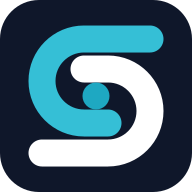
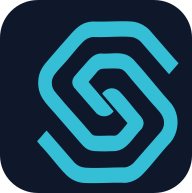
stuff

diff --git a/src/components/SolvantisMark.tsx b/src/components/SolvantisMark.tsx
@@ -19,14 +19,12 @@ export function SolvantisMark({
 }: SolvantisMarkProps) {
   const isReversed = variant === 'reversed' || variant === 'tile';
   const isMono = variant === 'mono';
-  const upper = isMono ? 'currentColor' : isReversed ? '#35BFD6' : '#1EA8C2';
-  const lower = isMono ? 'currentColor' : isReversed ? '#FFFFFF' : '#0F172A';
-  const junction = isMono ? 'currentColor' : isReversed ? '#1EA8C2' : '#35BFD6';
+  const markColor = isMono ? 'currentColor' : isReversed ? '#35BFD6' : '#1EA8C2';
 
   return (
     <svg
       xmlns="http://www.w3.org/2000/svg"
-      viewBox="0 0 64 64"
+      viewBox="0 0 305 306.5"
       width={size}
       height={size}
       className={className}
@@ -35,10 +33,9 @@ export function SolvantisMark({
       aria-label={title}
       aria-hidden={title ? undefined : true}
     >
-      {variant === 'tile' && <rect width="64" height="64" rx="13" fill="#0F172A" />}
-      <path d="M51 12H27C18.72 12 12 18.72 12 27s6.72 15 15 15h10" fill="none" stroke={upper} strokeWidth="9" strokeLinecap="round" strokeLinejoin="round" />
-      <path d="M13 52h24c8.28 0 15-6.72 15-15s-6.72-15-15-15H27" fill="none" stroke={lower} strokeWidth="9" strokeLinecap="round" strokeLinejoin="round" />
-      <circle cx="32" cy="32" r="4.5" fill={junction} />
+      {variant === 'tile' && <rect width="305" height="306.5" rx="60" fill="#0F172A" />}
+      <path fill={markColor} d="M276.51,92.61c2.17,2.53,4.5,5.02,6.76,7.44l.26.65-14.98,17.24-44.86-51.63c-4.18-4.13-10.07-7.22-15.63-7.68-19.64-1.61-40.95,1.23-60.77.02-5.85.91-10.9,3.25-15.35,7.66-8.71,8.65-17.42,20.17-25.6,29.68-6.16,7.15-14.12,14.96-19.68,22.48-4.06,5.49-5.32,12.45-3.48,19.35,1.25,4.7,4.21,7.88,7.06,11.36,17.73,21.67,37.35,42.02,55.25,63.58,1.67,1.74,3.72,2.55,5.95,2.73,9.92.82,20.69-.65,30.7,0,2.1-.21,3.87-1.07,5.5-2.57,3.54-3.24,10.73-11.64,13.71-15.68.41-.55.78-1.12,1.13-1.72l-40.03-46.54c-.3-.67,1.71-2.71,2.25-3.24,7.47-7.37,18.39-7.47,25.77.17,9.13,9.45,18.57,21.9,27.24,32.23,6.56,7.82,14.87,14.22,7.46,26.25-14.27,13.73-22.75,34.46-43.33,35.64-9.27.53-21.45.58-30.71,0-12.89-.81-17.05-5.92-25.45-15.54-13.08-14.98-26.09-29.98-39.02-45s-27.13-26.57-25.92-50.45c.86-16.91,8.35-25.01,17.86-36.15,11.22-13.15,22.74-26.14,34.13-39.01,10.24-11.57,19.04-18.85,34.23-19.8,20.3.98,41.48-1.25,61.68,0,10.41.65,20.53,5.52,28.44,13.14,13.21,15.06,26.37,30.17,39.42,45.4Z" />
+      <path fill={markColor} d="M70.4,211.16c1.12-1.26,2.58-2.42,3.62-3.86l44.37,51.14c4.96,4.88,10.72,7.41,17.27,7.85,20.59,1.37,42.7-.7,63.37-.45,4.88-.85,9.05-3.25,12.88-6.73l44.23-50.63c6.98-10.11,5.45-20.55-1.77-29.66-5.05-6.38-10.83-12.22-16.1-18.39-9.92-11.63-19.83-23.25-29.78-34.79-5.41-6.27-10.83-15.91-18.9-16.55-7.26-.58-18.36-.54-25.64,0-3.31.24-5.92,1.11-8.48,3.59l-14.86,17.46,39.88,46.64c-6.76,9.23-18.66,10.54-27.07,3.38l-35.62-41.05c-4.41-6.15-3.7-12.78.89-18.42,5.26-6.46,11.04-12.66,16.54-18.91,7.19-8.16,13.17-15.91,24.27-16.88,18.9,1.7,38.21-5.98,53.32,10.55,20.49,22.41,39.56,47.46,60,70.08,13.01,17.97,12.02,42.8-1.47,60-15.6,16.29-29.72,36.04-45.42,51.99-7.37,7.49-16.67,11.99-26.52,12.94-22.02-1.1-45.14,1.48-67.03.02-9.77-.65-19.91-5.46-27.24-12.8-14.13-14.14-26.78-32.21-40.81-46.7l-5.22-6.32c.92-2.19,2.82-3.52,4.19-5.1,2.38-2.75,4.68-5.7,7.1-8.41Z" />
     </svg>
   );
 }

diff --git a/src/app/wholesale/_client.tsx b/src/app/wholesale/_client.tsx
@@ -2,6 +2,7 @@
 
 import React, { useState, useEffect, useCallback } from 'react';
 import { useRouter } from 'next/navigation';
+import { SolvantisMark } from '@/components/SolvantisMark';
 import type { WholesaleSession } from '@/lib/wholesale/wholesaleSession';
 
 // ─────────────────────────────────────────────────────────────────────────────
@@ -565,9 +566,7 @@ export default function WholesalePortalClient({ session }: { session: WholesaleS
       <header style={{ background: '#fff', borderBottom: '1px solid #e2e8f0', boxShadow: '0 1px 3px rgba(0,0,0,.06)', position: 'sticky', top: 0, zIndex: 100 }}>
         <div style={{ maxWidth: 1280, margin: '0 auto', padding: '0 24px', height: 60, display: 'flex', alignItems: 'center', gap: 16 }}>
           <div style={{ display: 'flex', alignItems: 'center', gap: 10 }}>
-            <div style={{ width: 34, height: 34, background: '#2563eb', borderRadius: 10, display: 'flex', alignItems: 'center', justifyContent: 'center', flexShrink: 0 }}>
-              <svg width="18" height="18" viewBox="0 0 28 28" fill="none"><path d="M14 2L24 7.5V20.5L14 26L4 20.5V7.5L14 2Z" fill="white" fillOpacity="0.15" stroke="white" strokeWidth="1.5"/><path d="M16.5 8H12L10.5 14H13.5L11.5 20L19 12.5H15L16.5 8Z" fill="white"/></svg>
-            </div>
+            <SolvantisMark size={34} variant="tile" />
             <span style={{ fontSize: 15, fontWeight: 800, color: '#0f172a' }}>{portalTitle}</span>
           </div>
           <div style={{ display: 'flex', gap: 4, marginLeft: 8 }}>

diff --git a/src/app/api/wholesale/orders/[id]/submit/route.ts b/src/app/api/wholesale/orders/[id]/submit/route.ts
@@ -179,6 +179,8 @@ export async function POST(_req: Request, { params }: Ctx) {
         </tr>`).join('');
 
       const hasIndent = items.some((i: any) => i.is_indent);
+      const appUrlRaw = process.env.APP_URL ?? 'https://solvantis.com.au';
+      const appUrl = (/^https?:\/\//i.test(appUrlRaw) ? appUrlRaw : `https://${appUrlRaw}`).replace(/\/$/, '');
 
       resend.emails.send({
         from,
@@ -187,9 +189,7 @@ export async function POST(_req: Request, { params }: Ctx) {
         html: `
           <div style="font-family:system-ui,sans-serif;max-width:620px;margin:0 auto;padding:32px;background:#fff;border-radius:12px;">
             <div style="display:flex;align-items:center;gap:12px;margin-bottom:24px;">
-              <div style="width:38px;height:38px;background:#2563eb;border-radius:10px;display:flex;align-items:center;justify-content:center;flex-shrink:0;">
-                <svg width="20" height="20" viewBox="0 0 28 28" fill="none"><path d="M14 2L24 7.5V20.5L14 26L4 20.5V7.5L14 2Z" fill="white" fill-opacity="0.15" stroke="white" stroke-width="1.5"/><path d="M16.5 8H12L10.5 14H13.5L11.5 20L19 12.5H15L16.5 8Z" fill="white"/></svg>
-              </div>
+              <img src="${appUrl}/brand/png/solvantis-icon-192.png" width="38" height="38" alt="Solvantis" style="display:block;border-radius:8px;flex-shrink:0;" />
               <div>
                 <h1 style="margin:0;font-size:18px;font-weight:800;color:#0f172a;">New Wholesale Order</h1>
                 <p style="margin:0;font-size:13px;color:#64748b;">A customer has submitted an order via the Wholesale Portal</p>

diff --git a/src/app/admin/page.tsx b/src/app/admin/page.tsx
@@ -2,6 +2,7 @@
 
 import { useState, useEffect, useCallback } from 'react';
 import { useRouter } from 'next/navigation';
+import { SolvantisMark } from '@/components/SolvantisMark';
 import RuntimeIssuesView from './RuntimeIssuesView';
 
 // ── Types ─────────────────────────────────────────────────────────────────────
@@ -638,7 +639,7 @@ export default function AdminPage() {
     <div style={S.page}>
       {/* Topbar */}
       <div style={S.topbar}>
-        <svg width="20" height="20" viewBox="0 0 28 28" fill="none"><path d="M14 2L24 7.5V20.5L14 26L4 20.5V7.5L14 2Z" fill="#1ea8c2" fillOpacity=".15" stroke="#1ea8c2" strokeWidth="1.5"/><path d="M16.5 8H12L10.5 14H13.5L11.5 20L19 12.5H15L16.5 8Z" fill="#1ea8c2"/></svg>
+        <SolvantisMark size={20} variant="reversed" />
         <span style={{ color: '#1ea8c2', fontWeight: 700, fontSize: 15, letterSpacing: -.3 }}>Solvantis</span>
         <span style={{ fontWeight: 700, fontSize: 15, letterSpacing: -.3, color: '#e2e8f0', marginLeft: 2 }}>Admin</span>
         <span style={{ color: 'var(--sv-text-muted,rgba(255,255,255,.2))', margin: '0 8px', fontSize: 13, opacity: .4 }}>|</span>

diff --git a/src/app/wholesale/forgot-password/page.tsx b/src/app/wholesale/forgot-password/page.tsx
@@ -2,6 +2,7 @@
 
 import { useState } from 'react';
 import Link from 'next/link';
+import { SolvantisMark } from '@/components/SolvantisMark';
 
 export default function WholesaleForgotPasswordPage() {
   const [email,   setEmail]   = useState('');
@@ -33,12 +34,7 @@ export default function WholesaleForgotPasswordPage() {
       <div className="w-full max-w-md">
         {/* Header */}
         <div className="text-center mb-8">
-          <div className="inline-flex items-center justify-center w-14 h-14 bg-blue-600 rounded-2xl mb-4 shadow-lg">
-            <svg width="28" height="28" viewBox="0 0 28 28" fill="none" xmlns="http://www.w3.org/2000/svg">
-              <path d="M14 2L24 7.5V20.5L14 26L4 20.5V7.5L14 2Z" fill="white" fillOpacity="0.15" stroke="white" strokeWidth="1.5"/>
-              <path d="M16.5 8H12L10.5 14H13.5L11.5 20L19 12.5H15L16.5 8Z" fill="white"/>
-            </svg>
-          </div>
+          <SolvantisMark size={56} variant="tile" className="inline-block mb-4 shadow-lg rounded-2xl" />
           <h1 className="text-2xl font-extrabold text-slate-900">Wholesale Portal</h1>
           <p className="text-sm text-slate-500 mt-1">Reset your password</p>
         </div>

diff --git a/src/app/wholesale/login/page.tsx b/src/app/wholesale/login/page.tsx
@@ -3,6 +3,7 @@
 import { useState, Suspense } from 'react';
 import { useRouter, useSearchParams } from 'next/navigation';
 import Link from 'next/link';
+import { SolvantisMark } from '@/components/SolvantisMark';
 
 function LoginForm() {
   const router       = useRouter();
@@ -53,12 +54,7 @@ function LoginForm() {
       <div className="w-full max-w-md">
         {/* Header */}
         <div className="text-center mb-8">
-          <div className="inline-flex items-center justify-center w-14 h-14 bg-blue-600 rounded-2xl mb-4 shadow-lg">
-            <svg width="28" height="28" viewBox="0 0 28 28" fill="none" xmlns="http://www.w3.org/2000/svg">
-              <path d="M14 2L24 7.5V20.5L14 26L4 20.5V7.5L14 2Z" fill="white" fillOpacity="0.15" stroke="white" strokeWidth="1.5"/>
-              <path d="M16.5 8H12L10.5 14H13.5L11.5 20L19 12.5H15L16.5 8Z" fill="white"/>
-            </svg>
-          </div>
+          <SolvantisMark size={56} variant="tile" className="inline-block mb-4 shadow-lg rounded-2xl" />
           <h1 className="text-2xl font-extrabold text-slate-900">Wholesale Portal</h1>
           <p className="text-sm text-slate-500 mt-1">Sign in to your account</p>
         </div>

diff --git a/src/app/wholesale/reset-password/page.tsx b/src/app/wholesale/reset-password/page.tsx
@@ -3,6 +3,7 @@
 import { useState, Suspense } from 'react';
 import { useRouter, useSearchParams } from 'next/navigation';
 import Link from 'next/link';
+import { SolvantisMark } from '@/components/SolvantisMark';
 
 function ResetForm() {
   const router       = useRouter();
@@ -67,12 +68,7 @@ function ResetForm() {
       <div className="w-full max-w-md">
         {/* Header */}
         <div className="text-center mb-8">
-          <div className="inline-flex items-center justify-center w-14 h-14 bg-blue-600 rounded-2xl mb-4 shadow-lg">
-            <svg width="28" height="28" viewBox="0 0 28 28" fill="none" xmlns="http://www.w3.org/2000/svg">
-              <path d="M14 2L24 7.5V20.5L14 26L4 20.5V7.5L14 2Z" fill="white" fillOpacity="0.15" stroke="white" strokeWidth="1.5"/>
-              <path d="M16.5 8H12L10.5 14H13.5L11.5 20L19 12.5H15L16.5 8Z" fill="white"/>
-            </svg>
-          </div>
+          <SolvantisMark size={56} variant="tile" className="inline-block mb-4 shadow-lg rounded-2xl" />
           <h1 className="text-2xl font-extrabold text-slate-900">Wholesale Portal</h1>
           <p className="text-sm text-slate-500 mt-1">Set your password</p>
         </div>

diff --git a/public/brand/README.md b/public/brand/README.md
@@ -2,10 +2,9 @@
 
 ## Idea
 
-The symbol uses two opposing channels to form an abstract `S`. The channels
-represent POS, inventory, ecommerce, and reporting data moving through one
-connected system. Their central junction represents synchronisation and a
-single source of truth.
+The symbol uses two interlocking geometric paths to form a continuous link.
+The nested construction represents Solvantis connecting POS, inventory,
+ecommerce, reporting, and customer operations in one system.
 
 ## Primary Assets
 
@@ -21,7 +20,7 @@ single source of truth.
 | Colour | Hex | Use |
 | --- | --- | --- |
 | Solvantis Teal | `#1EA8C2` | Primary brand colour |
-| Bright Teal | `#35BFD6` | Reversed mark and highlights |
+| Bright Teal | `#35BFD6` | Mark on dark backgrounds and highlights |
 | Solvantis Navy | `#0F172A` | Wordmark and dark surfaces |
 | White | `#FFFFFF` | Reversed wordmark |
 
@@ -42,8 +41,7 @@ optimised for 16 px and 32 px output.
 Use the primary logo on white and pale neutral backgrounds. Use the reversed
 logo on navy, photography, or other dark backgrounds. The monochrome version
 may be recoloured as one solid ink only. Do not rotate the symbol, alter its
-stroke widths, separate the channels, add shadows, or place it on low-contrast
-colours.
+geometry, separate its paths, add shadows, or place it on low-contrast colours.
 
 The SVG lockups contain live Montserrat text so the wordmark remains editable.
 Install or load Montserrat before exporting final outlined artwork in a design
@@ -51,6 +49,7 @@ application.
 
 ## PNG Exports
 
-Run `npm run brand:export` to regenerate all files under `public/brand/png`.
-The export set includes 600 px and 1200 px horizontal logos, 256 px and 512 px
+Run `npm run brand:export` to rebuild the SVG masters from
+`new logo/new logo.svg` and regenerate all files under `public/brand/png`. The
+export set includes 600 px and 1200 px horizontal logos, 256 px and 512 px
 transparent symbols, and navy-backed icons from 16 px through 512 px.
